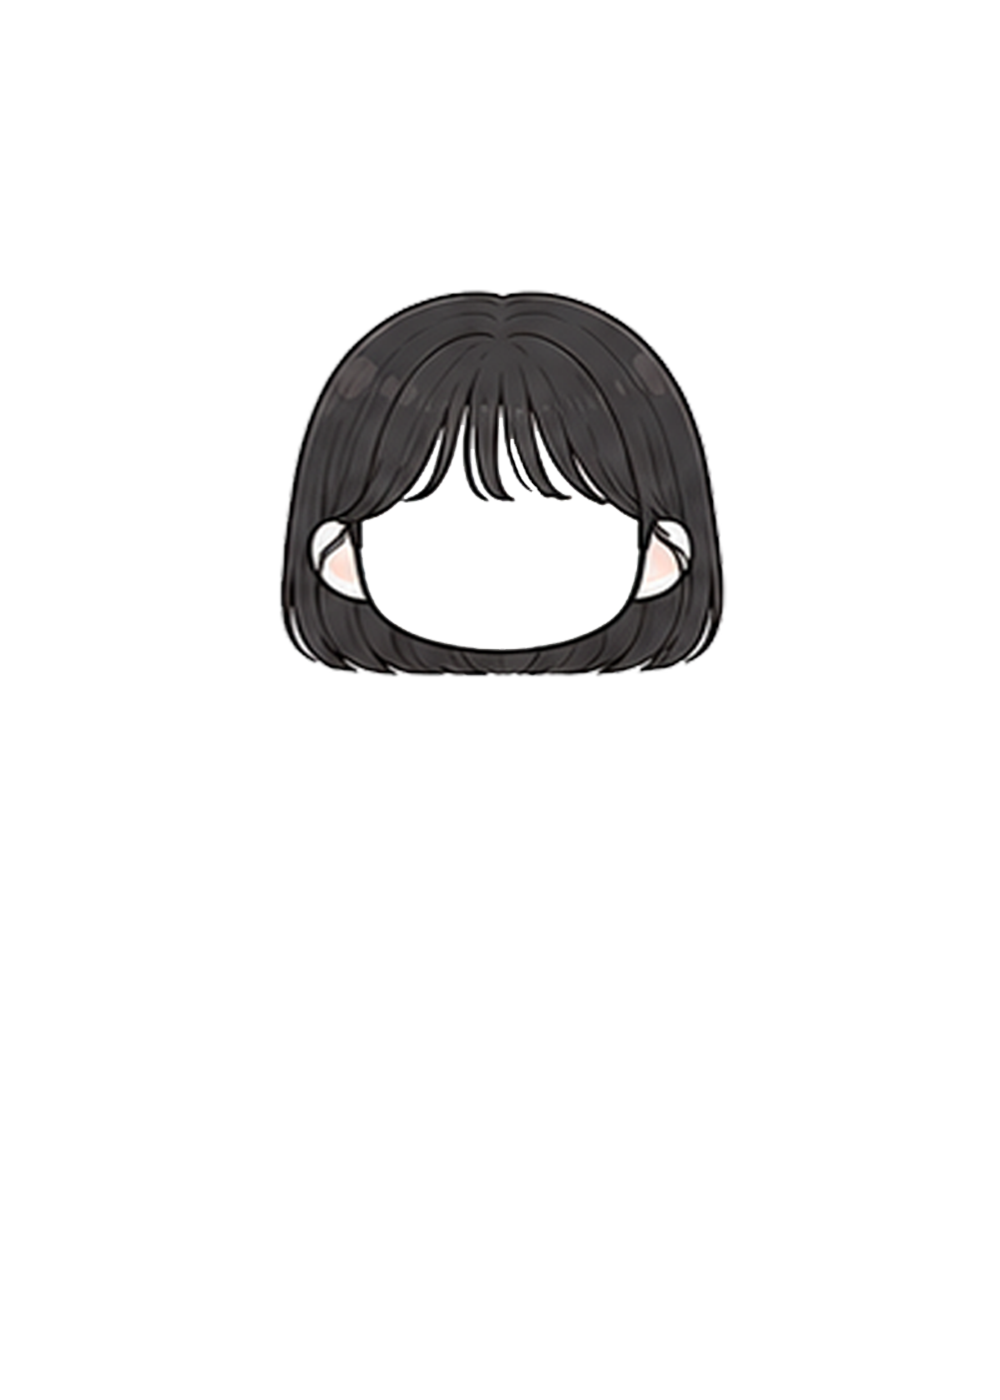
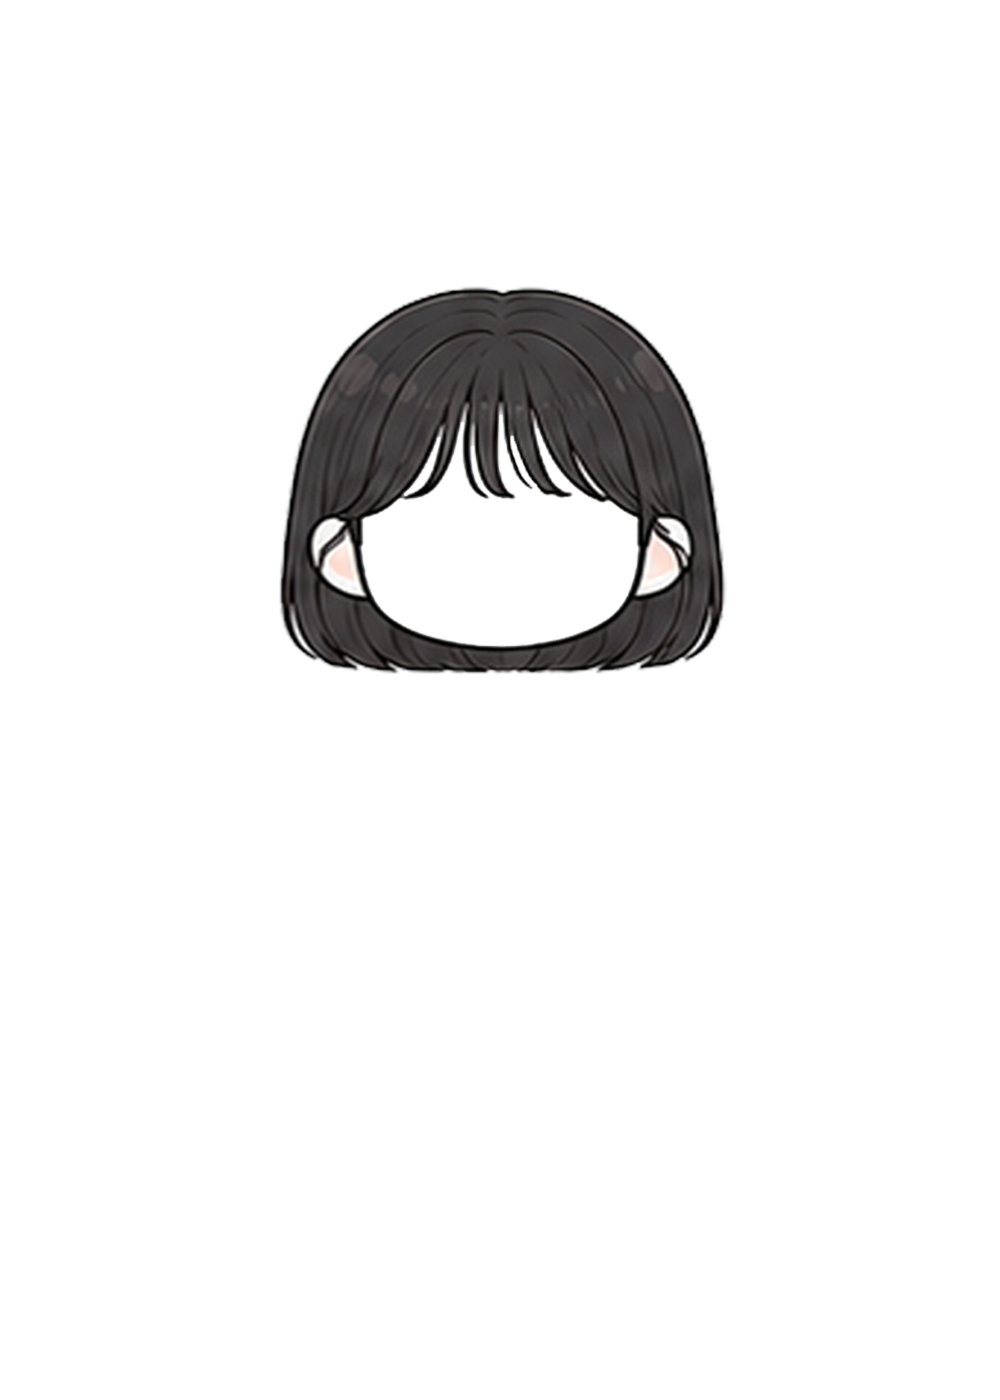
260713_01

diff --git a/src/data/characters.ts b/src/data/characters.ts
@@ -3,11 +3,9 @@ import { assetUrl } from '../utils/asset'
 // 캐릭터 공통 파츠. 모든 파츠/표정/헤어는 동일한 1000×1400 프레임의 투명 PNG라 그대로 겹치면 정렬된다.
 export const CHARACTER_HEAD = assetUrl('images/characters/head.png')
 export const CHARACTER_BODY = assetUrl('images/characters/body.png')
-export const GROOM_HAIR = assetUrl('images/characters/man_hair_00.png')
-export const BRIDE_HAIR = assetUrl('images/characters/woman_hair_00.png')
-export const BRIDE_HAIR_01 = assetUrl('images/characters/woman_hair_01.png')
 export const GROOM_SUIT = assetUrl('images/characters/suit00.png')
 export const BRIDE_DRESS = assetUrl('images/characters/dress00.png')
+export const BRIDE_DRESS_01 = assetUrl('images/characters/dress01.png')
 
 export interface FaceExpr {
   id: string
@@ -20,6 +18,14 @@ export interface HairOption {
   id: string
   name: string
   image: string | null
+  price: number
+}
+
+export interface HairColorOption {
+  id: string
+  name: string
+  swatch: string
+  filter: string
   price: number
 }
 
@@ -51,7 +57,64 @@ export const FACE_EXPRESSIONS: FaceExpr[] = [
 export const DEFAULT_EXPR_ID = 'face00'
 
 export const DEFAULT_HAIR_ID = 'none'
+export const DEFAULT_HAIR_COLOR_ID = 'natural'
 export const DEFAULT_OUTFIT_ID = 'body'
+const HAIR_PRICE = 500_000
+const HAIR_COLOR_PRICE = 500_000
+
+const GROOM_HAIR_IDS = [
+  'man_hair_00',
+  'man_hair_01',
+  'man_hair_02',
+  'man_hair_03',
+  'man_hair_04',
+  'man_hair_05',
+  'man_hair_06',
+  'man_hair_07',
+  'man_hair_08',
+  'man_hair_09',
+  'man_hair_10',
+  'man_hair_12',
+  'man_hair_13',
+  'man_hair_14',
+  'man_hair_15',
+  'man_hair_16',
+  'man_hair_17',
+  'man_hair_18',
+  'man_hair_19',
+]
+
+const BRIDE_HAIR_IDS = [
+  'woman_hair_00',
+  'woman_hair_01',
+  'woman_hair_02',
+  'woman_hair_03',
+  'woman_hair_04',
+  'woman_hair_05',
+  'woman_hair_06',
+  'woman_hair_07',
+  'woman_hair_08',
+  'woman_hair_09',
+  'woman_hair_10',
+  'woman_hair_11',
+  'woman_hair_12',
+  'woman_hair_13',
+  'woman_hair_14',
+  'woman_hair_15',
+  'woman_hair_16',
+  'woman_hair_17',
+  'woman_hair_18',
+  'woman_hair_19',
+]
+
+function makeHairOption(id: string, label: string, index: number): HairOption {
+  return {
+    id,
+    name: `${label} 헤어 ${index + 1}`,
+    image: assetUrl(`images/characters/${id}.png`),
+    price: HAIR_PRICE,
+  }
+}
 
 // 고정 등장 인물 2명(삭제/변경 불가). 몸/머리는 공유하고, 헤어와 표정만 각자.
 export type CharacterKey = 'groom' | 'bride'
@@ -63,24 +126,52 @@ export const CHARACTERS: { key: CharacterKey; label: string }[] = [
 export const HAIR_OPTIONS: Record<CharacterKey, HairOption[]> = {
   groom: [
     { id: DEFAULT_HAIR_ID, name: '헤어 없음', image: null, price: 0 },
-    { id: 'man_hair_00', name: '신랑 헤어 1', image: GROOM_HAIR, price: 500_000 },
+    ...GROOM_HAIR_IDS.map((id, index) => makeHairOption(id, '신랑', index)),
   ],
   bride: [
     { id: DEFAULT_HAIR_ID, name: '헤어 없음', image: null, price: 0 },
-    { id: 'woman_hair_00', name: '신부 헤어 1', image: BRIDE_HAIR, price: 500_000 },
-    { id: 'woman_hair_01', name: '신부 헤어 2', image: BRIDE_HAIR_01, price: 500_000 },
-    { id: 'woman_hair_02', name: '신부 헤어 3', image: assetUrl('images/characters/woman_hair_02.png'), price: 500_000 },
-    { id: 'woman_hair_03', name: '신부 헤어 4', image: assetUrl('images/characters/woman_hair_03.png'), price: 500_000 },
-    { id: 'woman_hair_04', name: '신부 헤어 5', image: assetUrl('images/characters/woman_hair_04.png'), price: 500_000 },
-    { id: 'woman_hair_05', name: '신부 헤어 6', image: assetUrl('images/characters/woman_hair_05.png'), price: 500_000 },
-    { id: 'woman_hair_06', name: '신부 헤어 7', image: assetUrl('images/characters/woman_hair_06.png'), price: 500_000 },
-    { id: 'woman_hair_07', name: '신부 헤어 8', image: assetUrl('images/characters/woman_hair_07.png'), price: 500_000 },
-    { id: 'woman_hair_08', name: '신부 헤어 9', image: assetUrl('images/characters/woman_hair_08.png'), price: 500_000 },
-    { id: 'woman_hair_11', name: '신부 헤어 12', image: assetUrl('images/characters/woman_hair_11.png'), price: 500_000 },
-    { id: 'woman_hair_13', name: '신부 헤어 14', image: assetUrl('images/characters/woman_hair_13.png'), price: 500_000 },
-    { id: 'woman_hair_17', name: '신부 헤어 18', image: assetUrl('images/characters/woman_hair_17.png'), price: 500_000 },
+    ...BRIDE_HAIR_IDS.map((id, index) => makeHairOption(id, '신부', index)),
   ],
 }
+
+export const HAIR_COLOR_OPTIONS: HairColorOption[] = [
+  { id: DEFAULT_HAIR_COLOR_ID, name: '기본색', swatch: '#27211f', filter: 'none', price: 0 },
+  {
+    id: 'brown',
+    name: '브라운',
+    swatch: '#7a4a2a',
+    filter: 'sepia(0.85) saturate(1.8) hue-rotate(340deg) brightness(0.82)',
+    price: HAIR_COLOR_PRICE,
+  },
+  {
+    id: 'blonde',
+    name: '블론드',
+    swatch: '#d8aa52',
+    filter: 'sepia(1) saturate(2.4) hue-rotate(350deg) brightness(1.18)',
+    price: HAIR_COLOR_PRICE,
+  },
+  {
+    id: 'ash',
+    name: '애쉬',
+    swatch: '#8b9299',
+    filter: 'grayscale(1) brightness(1.28) contrast(0.82)',
+    price: HAIR_COLOR_PRICE,
+  },
+  {
+    id: 'pink',
+    name: '핑크',
+    swatch: '#d77a9d',
+    filter: 'sepia(1) saturate(2.4) hue-rotate(285deg) brightness(1.08)',
+    price: HAIR_COLOR_PRICE,
+  },
+  {
+    id: 'blue',
+    name: '블루',
+    swatch: '#4f80c7',
+    filter: 'sepia(1) saturate(2.5) hue-rotate(175deg) brightness(0.95)',
+    price: HAIR_COLOR_PRICE,
+  },
+]
 
 export const OUTFIT_OPTIONS: Record<CharacterKey, OutfitOption[]> = {
   groom: [
@@ -90,6 +181,7 @@ export const OUTFIT_OPTIONS: Record<CharacterKey, OutfitOption[]> = {
   bride: [
     { id: DEFAULT_OUTFIT_ID, name: '기본 의상', image: CHARACTER_BODY, price: 0 },
     { id: 'dress00', name: '드레스 1', image: BRIDE_DRESS, price: 1_000_000 },
+    { id: 'dress01', name: '드레스 2', image: BRIDE_DRESS_01, price: 1_000_000 },
   ],
 }
 
@@ -107,6 +199,14 @@ export function findHair(who: CharacterKey, id: string | null | undefined): Hair
 
 export function hairPrice(who: CharacterKey, id: string | null | undefined): number {
   return findHair(who, id)?.price ?? 0
+}
+
+export function findHairColor(id: string | null | undefined): HairColorOption | undefined {
+  return HAIR_COLOR_OPTIONS.find((c) => c.id === id)
+}
+
+export function hairColorPrice(id: string | null | undefined): number {
+  return findHairColor(id)?.price ?? 0
 }
 
 export function findOutfit(who: CharacterKey, id: string | null | undefined): OutfitOption | undefined {

diff --git a/src/stages/Decorate.tsx b/src/stages/Decorate.tsx
@@ -5,15 +5,19 @@ import {
   CHARACTER_BODY,
   CHARACTER_HEAD,
   CHARACTERS,
+  DEFAULT_HAIR_COLOR_ID,
   DEFAULT_HAIR_ID,
   DEFAULT_OUTFIT_ID,
   FACE_EXPRESSIONS,
+  HAIR_COLOR_OPTIONS,
   HAIR_OPTIONS,
   OUTFIT_OPTIONS,
   findExpr,
   findHair,
+  findHairColor,
   findOutfit,
   exprPrice,
+  hairColorPrice,
   hairPrice,
   outfitPrice,
   DEFAULT_EXPR_ID,
@@ -29,7 +33,7 @@ interface ShopTab {
   label: string
   itemCat?: ItemCategory
   who?: CharacterKey
-  characterPart?: 'face' | 'hair' | 'outfit'
+  characterPart?: 'face' | 'hair' | 'hairColor' | 'outfit'
 }
 const SHOP_TABS: ShopTab[] = [
   { key: 'background', label: '배경', itemCat: 'background' },
@@ -37,6 +41,8 @@ const SHOP_TABS: ShopTab[] = [
   { key: 'brideFace', label: '신부 표정', who: 'bride', characterPart: 'face' },
   { key: 'groomHair', label: '신랑 헤어', who: 'groom', characterPart: 'hair' },
   { key: 'brideHair', label: '신부 헤어', who: 'bride', characterPart: 'hair' },
+  { key: 'groomHairColor', label: '신랑 염색', who: 'groom', characterPart: 'hairColor' },
+  { key: 'brideHairColor', label: '신부 염색', who: 'bride', characterPart: 'hairColor' },
   { key: 'groomOutfit', label: '신랑 의상', who: 'groom', characterPart: 'outfit' },
   { key: 'brideOutfit', label: '신부 의상', who: 'bride', characterPart: 'outfit' },
   { key: 'object', label: '오브제', itemCat: 'object' },
@@ -92,6 +98,7 @@ export default function Decorate() {
   const characters = useAppStore((s) => s.characters)
   const setCharacterExpr = useAppStore((s) => s.setCharacterExpr)
   const setCharacterHair = useAppStore((s) => s.setCharacterHair)
+  const setCharacterHairColor = useAppStore((s) => s.setCharacterHairColor)
   const setCharacterOutfit = useAppStore((s) => s.setCharacterOutfit)
   const moveCharacter = useAppStore((s) => s.moveCharacter)
   const canvasBackgroundId = useAppStore((s) => s.canvasBackgroundId)
@@ -231,8 +238,13 @@ export default function Decorate() {
             if (cs.x === null || cs.y === null) return null // 위치 초기화 전
             const ex = findExpr(cs.exprId ?? DEFAULT_EXPR_ID)
             const hair = findHair(c.key, cs.hairId ?? DEFAULT_HAIR_ID)
+            const hairColor = findHairColor(cs.hairColorId ?? DEFAULT_HAIR_COLOR_ID)
             const outfit = findOutfit(c.key, cs.outfitId ?? DEFAULT_OUTFIT_ID)
             const isDefaultOutfit = (cs.outfitId ?? DEFAULT_OUTFIT_ID) === DEFAULT_OUTFIT_ID
+            const hairStyle = {
+              ...CHAR_IMG_STYLE,
+              filter: hairColor?.filter === 'none' ? undefined : hairColor?.filter,
+            }
             return (
               <div
                 key={c.key}
@@ -262,7 +274,7 @@ export default function Decorate() {
                     src={hair.image}
                     alt=""
                     className="pointer-events-none"
-                    style={CHAR_IMG_STYLE}
+                    style={hairStyle}
                     draggable={false}
                   />
                 )}
@@ -409,6 +421,7 @@ export default function Decorate() {
               {HAIR_OPTIONS[activeTab.who].map((hair) => {
                 const who = activeTab.who!
                 const curHair = characters[who]?.hairId ?? DEFAULT_HAIR_ID
+                const curHairColor = findHairColor(characters[who]?.hairColorId ?? DEFAULT_HAIR_COLOR_ID)
                 const isCur = hair.id === curHair
                 const delta = hair.price - hairPrice(who, curHair)
                 const affordable = budget === null || spent + delta <= budget
@@ -429,7 +442,10 @@ export default function Decorate() {
                           src={hair.image}
                           alt={hair.name}
                           className="h-full w-full object-cover"
-                          style={{ objectPosition: '50% 20%' }}
+                          style={{
+                            objectPosition: '50% 20%',
+                            filter: curHairColor?.filter === 'none' ? undefined : curHairColor?.filter,
+                          }}
                           draggable={false}
                         />
                       ) : (
@@ -439,6 +455,39 @@ export default function Decorate() {
                     <span className="w-full truncate text-center text-sm text-gray-700">{hair.name}</span>
                     <span className="w-full truncate text-center text-xs text-gray-400">
                       {hair.price === 0 ? '무료' : formatWon(hair.price)}
+                    </span>
+                  </button>
+                )
+              })}
+            </ShopScrollRow>
+          ) : activeTab.who && activeTab.characterPart === 'hairColor' ? (
+            <ShopScrollRow key={activeTab.key}>
+              {HAIR_COLOR_OPTIONS.map((color) => {
+                const who = activeTab.who!
+                const curColor = characters[who]?.hairColorId ?? DEFAULT_HAIR_COLOR_ID
+                const isCur = color.id === curColor
+                const delta = color.price - hairColorPrice(curColor)
+                const affordable = budget === null || spent + delta <= budget
+                return (
+                  <button
+                    key={color.id}
+                    onClick={() => {
+                      if (!setCharacterHairColor(who, color.id)) warn('예산을 초과해서 바꿀 수 없어요.')
+                    }}
+                    disabled={!affordable && !isCur}
+                    className={`flex w-24 shrink-0 select-none flex-col items-center gap-1 rounded-xl border-2 p-2 active:bg-brand-50 disabled:opacity-40 ${
+                      isCur ? 'border-brand-500 bg-brand-50' : 'border-brand-100'
+                    }`}
+                  >
+                    <span className="flex h-16 w-16 items-center justify-center rounded-lg bg-brand-50">
+                      <span
+                        className="h-11 w-11 rounded-full border border-white shadow-inner"
+                        style={{ backgroundColor: color.swatch }}
+                      />
+                    </span>
+                    <span className="w-full truncate text-center text-sm text-gray-700">{color.name}</span>
+                    <span className="w-full truncate text-center text-xs text-gray-400">
+                      {color.price === 0 ? '무료' : formatWon(color.price)}
                     </span>
                   </button>
                 )

diff --git a/src/store/useAppStore.ts b/src/store/useAppStore.ts
@@ -12,9 +12,11 @@ import { drawBudgetResult } from '../data/budgetTiers'
 import { findItem } from '../data/items'
 import {
   DEFAULT_EXPR_ID,
+  DEFAULT_HAIR_COLOR_ID,
   DEFAULT_HAIR_ID,
   DEFAULT_OUTFIT_ID,
   exprPrice,
+  hairColorPrice,
   hairPrice,
   outfitPrice,
   type CharacterKey,
@@ -51,6 +53,7 @@ export interface PlacedItem {
 export type CharacterState = {
   exprId: string
   hairId: string
+  hairColorId: string
   outfitId: string
   x: number | null
   y: number | null
@@ -62,6 +65,7 @@ function makeCharacters(): CharactersState {
     groom: {
       exprId: DEFAULT_EXPR_ID,
       hairId: DEFAULT_HAIR_ID,
+      hairColorId: DEFAULT_HAIR_COLOR_ID,
       outfitId: DEFAULT_OUTFIT_ID,
       x: null,
       y: null,
@@ -69,6 +73,7 @@ function makeCharacters(): CharactersState {
     bride: {
       exprId: DEFAULT_EXPR_ID,
       hairId: DEFAULT_HAIR_ID,
+      hairColorId: DEFAULT_HAIR_COLOR_ID,
       outfitId: DEFAULT_OUTFIT_ID,
       x: null,
       y: null,
@@ -112,6 +117,7 @@ interface AppState {
   removeItem: (instanceId: string) => void
   setCharacterExpr: (who: CharacterKey, exprId: string) => boolean // 표정 교체(가격차 반영, 초과면 false)
   setCharacterHair: (who: CharacterKey, hairId: string) => boolean // 헤어 교체(가격차 반영, 초과면 false)
+  setCharacterHairColor: (who: CharacterKey, hairColorId: string) => boolean // 헤어 염색(가격차 반영, 초과면 false)
   setCharacterOutfit: (who: CharacterKey, outfitId: string) => boolean // 의상 교체(가격차 반영, 초과면 false)
   moveCharacter: (who: CharacterKey, x: number, y: number) => void // 인물 위치 이동
   setCanvasBackground: (itemId: string | null) => void // 배경 선택(예산 무관)
@@ -354,6 +360,18 @@ export const useAppStore = create<AppState>((set, get) => ({
     if (budget !== null && spent + delta > budget) return false
     set({
       characters: { ...characters, [who]: { ...characters[who], hairId } },
+      spent: Math.max(0, spent + delta),
+    })
+    return true
+  },
+
+  setCharacterHairColor: (who, hairColorId) => {
+    const { characters, spent, budget } = get()
+    const cur = characters[who]?.hairColorId
+    const delta = hairColorPrice(hairColorId) - hairColorPrice(cur)
+    if (budget !== null && spent + delta > budget) return false
+    set({
+      characters: { ...characters, [who]: { ...characters[who], hairColorId } },
       spent: Math.max(0, spent + delta),
     })
     return true